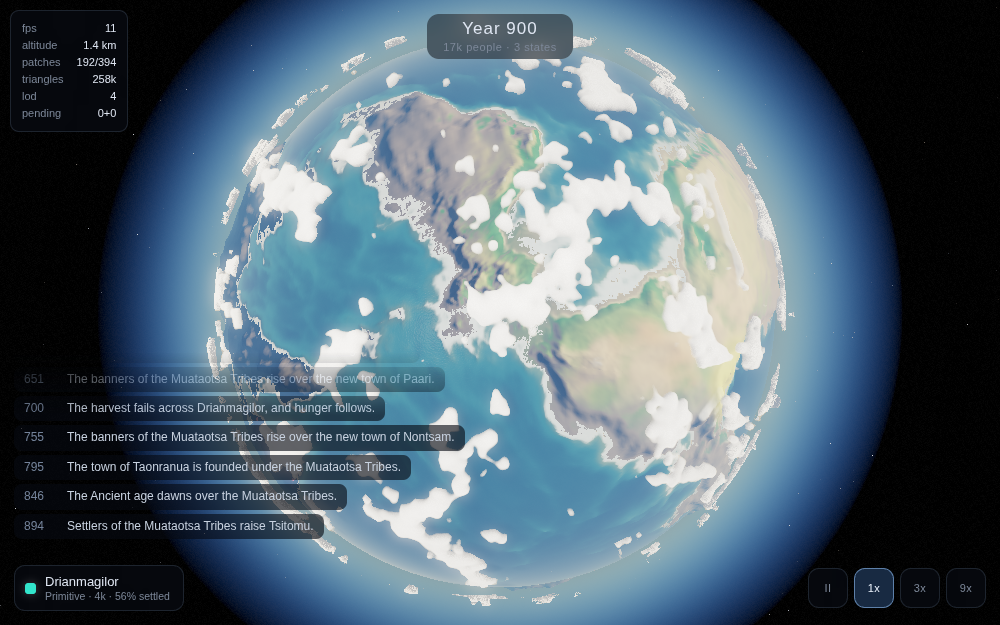
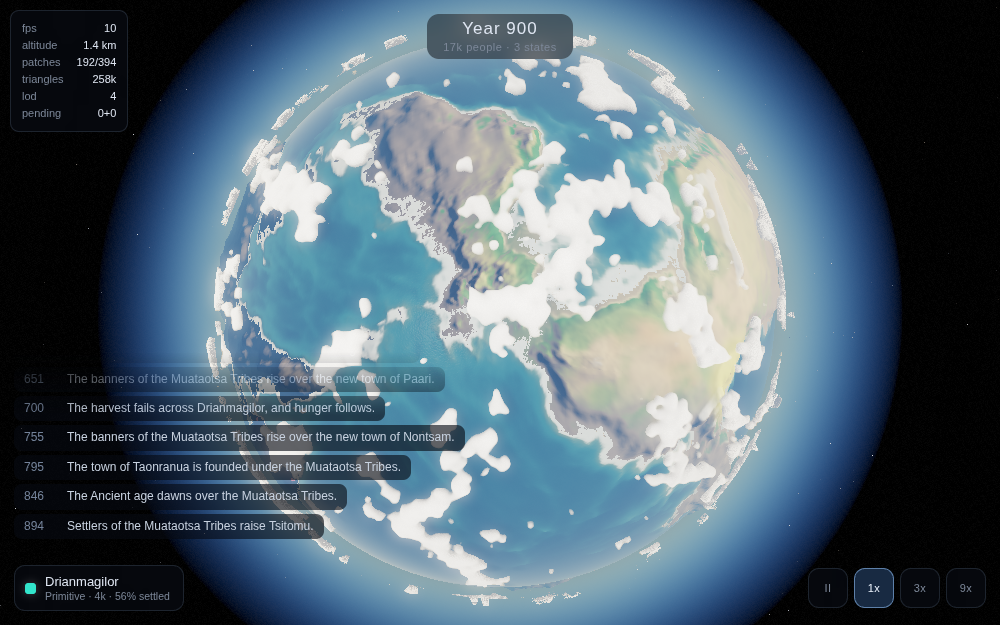
Put trees where nobody built a town
Vegetation existed in a ring around every settlement and nowhere else, which
made a wilderness the one part of the planet visibly emptier than the
farmland — exactly backwards.

The obvious fix is to hang a scatter off the terrain's LOD patches. That is
the right long-term answer and it is a much larger problem than it looks:
patches split and merge constantly while the camera moves, so the scatter has
to stay stable across a subdivision it does not control.

This is the cheap version, and it is cheap because of an observation about
where vegetation actually has to exist: only where you are. One disc follows
the camera's ground point and rebuilds once it has moved a third of its own
radius. Density falls off with distance — radius as u^1.5 rather than the
uniform-area sqrt(u), because spreading a fixed budget evenly over a disc
makes the far edge look like the ground at your feet and neither dense enough.
Species come from the climate the terrain function already computes, so a cold
coast gets conifers and a dry interior gets scrub with nothing having to decide
what biome it is.

Nine hundred candidates against the terrain function is seventeen
milliseconds, so it is built a couple of hundred at a time across frames and
swapped in whole. The old scatter stays on screen while the new one comes
together, and a long flight never costs a frame.

Claude-Session: https://claude.ai/code/session_01LGa68L7NcxbnLmGhCPV4sy

diff --git a/src/render/ground/wilderness.ts b/src/render/ground/wilderness.ts
@@ -1,0 +1,243 @@
+/**
+ * Vegetation outside the towns.
+ *
+ * Trees, crops and scrub used to exist in a ring around every settlement and
+ * nowhere else, which made a wilderness the one part of the planet that was
+ * visibly emptier than the farmland — exactly backwards.
+ *
+ * The obvious fix is to hang a scatter off the terrain's LOD patches. That is
+ * the right long-term answer and it is a much larger problem than it looks:
+ * patches split and merge constantly while the camera moves, so the scatter has
+ * to be stable across a subdivision it does not control, and every LOD change
+ * re-uploads thousands of instances.
+ *
+ * This is the cheap version, and it is cheap because of an observation about
+ * where vegetation actually has to exist: only where you are. One disc of
+ * scatter follows the camera's ground point and is rebuilt when it has moved a
+ * third of its own radius — a few hundred metres of flying, and a few
+ * milliseconds of terrain sampling when it happens. Density falls off with
+ * distance so the near field is dense and the far edge is sparse, which is both
+ * what a landscape looks like and what keeps the instance count bounded.
+ *
+ * Species come from the climate the terrain function already computes, so a
+ * cold coast gets conifers and a dry interior gets scrub without anything
+ * having to decide what biome it is.
+ */
+
+import * as THREE from 'three';
+import { PLANET_RADIUS } from '../../planet/config';
+import { makeRng, mixSeed } from '../../core/rng';
+import type { PlanetField } from '../../planet/heightfield';
+import type { PropPlacement } from './plan';
+
+/** Candidate points tested per rebuild. Roughly a third of them take. */
+const SCATTER_COUNT = 900;
+
+/** Candidates tested per frame while a rebuild is in progress. */
+const CHUNK = 220;
+
+/** Rebuild once the camera's ground point has moved this fraction of the radius. */
+const REBUILD_FRACTION = 0.32;
+
+export class Wilderness {
+  private field: PlanetField;
+  private seed: number;
+
+  private centre = new THREE.Vector3();
+  private radius = 0;
+  private built = false;
+  private lastMs = 0;
+
+  /** The scatter currently uploaded. Replaced only when a rebuild finishes. */
+  props: PropPlacement[] = [];
+
+  /**
+   * A rebuild in progress.
+   *
+   * Built a few hundred candidates at a time and swapped in whole, so a long
+   * flight never costs a frame and the old scatter stays on screen while the
+   * new one is coming together. Sampling nine hundred points against the
+   * terrain function is seventeen milliseconds; a fifth of that is a frame
+   * nobody notices.
+   */
+  private pending: PropPlacement[] | null = null;
+  private pendingIndex = 0;
+  private pendingRng: ReturnType<typeof makeRng> | null = null;
+  private pendingCentre = new THREE.Vector3();
+  private pendingRadius = 0;
+  private pendingExclude: { centre: THREE.Vector3; radius: number }[] = [];
+
+  private dir = new THREE.Vector3();
+  private east = new THREE.Vector3();
+  private north = new THREE.Vector3();
+
+  constructor(field: PlanetField, seed: number) {
+    this.field = field;
+    this.seed = seed >>> 0;
+  }
+
+  /** True when the scatter changed and the caller has to re-upload. */
+  update(
+    groundUnit: THREE.Vector3,
+    reach: number,
+    exclude: { centre: THREE.Vector3; radius: number }[],
+  ): boolean {
+    if (reach < 40) {
+      this.pending = null;
+      if (!this.built && this.props.length === 0) return false;
+      this.props.length = 0;
+      this.built = false;
+      return true;
+    }
+
+    if (this.pending) return this.advance();
+
+    // Angular distance is the honest measure here: the two points are on a
+    // sphere, and near the poles a difference in longitude is not a distance.
+    const moved = this.built
+      ? Math.acos(THREE.MathUtils.clamp(this.centre.dot(groundUnit), -1, 1)) * PLANET_RADIUS
+      : Infinity;
+    if (
+      this.built &&
+      moved < this.radius * REBUILD_FRACTION &&
+      Math.abs(reach - this.radius) < this.radius * 0.2
+    ) {
+      return false;
+    }
+
+    this.start(groundUnit, reach, exclude);
+    return this.advance();
+  }
+
+  private start(
+    groundUnit: THREE.Vector3,
+    reach: number,
+    exclude: { centre: THREE.Vector3; radius: number }[],
+  ): void {
+    this.pendingCentre.copy(groundUnit).normalize();
+    this.pendingRadius = reach;
+    this.pendingExclude = exclude.map((e) => ({ centre: e.centre.clone(), radius: e.radius }));
+    this.pending = [];
+    this.pendingIndex = 0;
+
+    const up = this.pendingCentre;
+    const ref = Math.abs(up.y) < 0.99 ? new THREE.Vector3(0, 1, 0) : new THREE.Vector3(1, 0, 0);
+    this.east.crossVectors(ref, up).normalize();
+    this.north.crossVectors(up, this.east);
+
+    // Seeded by where the disc is, not by how many have been built: fly away
+    // and back and the same trees are in the same places.
+    const key =
+      (Math.round(up.x * 4096) * 73856093) ^
+      (Math.round(up.y * 4096) * 19349663) ^
+      (Math.round(up.z * 4096) * 83492791);
+    this.pendingRng = makeRng(mixSeed(this.seed, key));
+  }
+
+  /** Test the next chunk of candidates. True when the scatter was swapped in. */
+  private advance(): boolean {
+    const pending = this.pending;
+    const rng = this.pendingRng;
+    if (!pending || !rng) return false;
+
+    const start = performance.now();
+    const end = Math.min(SCATTER_COUNT, this.pendingIndex + CHUNK);
+    this.scatter(pending, rng, this.pendingIndex, end);
+    this.pendingIndex = end;
+    // Per chunk, not per rebuild: what matters is the frame, not the total.
+    this.lastMs = performance.now() - start;
+
+    if (this.pendingIndex < SCATTER_COUNT) return false;
+
+    this.props = pending;
+    this.centre.copy(this.pendingCentre);
+    this.radius = this.pendingRadius;
+    this.built = true;
+    this.pending = null;
+    this.pendingRng = null;
+    return true;
+  }
+
+  get buildMs(): number {
+    return this.lastMs;
+  }
+
+  private scatter(
+    out: PropPlacement[],
+    rng: ReturnType<typeof makeRng>,
+    from: number,
+    to: number,
+  ): void {
+    const up = this.pendingCentre;
+    const exclude = this.pendingExclude;
+    const world = new THREE.Vector3();
+    for (let i = from; i < to; i++) {
+      // Radius as u^1.5 rather than sqrt(u): uniform area density spreads a
+      // fixed budget evenly over a disc, which means the far edge looks the
+      // same as the ground at your feet and neither is dense enough.
+      const r = this.pendingRadius * Math.pow(rng.next(), 1.5);
+      const angle = rng.next() * Math.PI * 2;
+      const a = Math.cos(angle) * r;
+      const b = Math.sin(angle) * r;
+
+      this.dir
+        .copy(up)
+        .addScaledVector(this.east, a / PLANET_RADIUS)
+        .addScaledVector(this.north, b / PLANET_RADIUS)
+        .normalize();
+
+      const ground = this.field.sample(this.dir.x, this.dir.y, this.dir.z, 0.5);
+      if (ground.height < 1.2) continue;
+
+      // Thin out on anything a tree would fall off, and above the treeline.
+      if (ground.temperature < 0.14) continue;
+      const density =
+        Math.min(1, ground.moisture * 1.5) *
+        Math.min(1, (ground.temperature - 0.1) * 2.2) *
+        (1 - THREE.MathUtils.smoothstep(ground.height, 15, 24));
+      if (!rng.chance(density)) continue;
+
+      // Towns plant their own; this must not double up inside one.
+      let inTown = false;
+      world.copy(this.dir).multiplyScalar(PLANET_RADIUS + ground.height);
+      for (const town of exclude) {
+        if (world.distanceToSquared(town.centre) < town.radius * town.radius * 2.9) {
+          inTown = true;
+          break;
+        }
+      }
+      if (inTown) continue;
+
+      let kind = 0;
+      if (ground.temperature < 0.36) kind = 2;
+      else if (ground.moisture < 0.32) kind = 3;
+      else if (ground.temperature > 0.74 && ground.moisture < 0.48) kind = 3;
+
+      const lush = 0.5 + ground.moisture * 0.8;
+      out.push({
+        origin: this.dir.clone().multiplyScalar(PLANET_RADIUS + ground.height - 0.25),
+        rot: rng.next() * Math.PI,
+        size: kind === 3 ? rng.range(1.4, 2.6) : rng.range(3.0, 7.0),
+        kind,
+        tint: [
+          rng.range(0.08, 0.19) * lush,
+          rng.range(0.17, 0.32) * lush,
+          rng.range(0.05, 0.14) * lush,
+        ],
+      });
+    }
+  }
+
+  /** Force a rebuild on the next update, e.g. after the range changed. */
+  invalidate(): void {
+    this.built = false;
+    this.pending = null;
+  }
+
+  /** Drop the scatter entirely. Used when the layer stops drawing the world. */
+  clear(): void {
+    this.props = [];
+    this.built = false;
+    this.pending = null;
+  }
+}

diff --git a/src/render/ground/detail.ts b/src/render/ground/detail.ts
@@ -39,6 +39,7 @@ import { PEOPLE_FAR, PEOPLE_NEAR, PeopleLayer } from './people';
 import { planTown, signatureOf } from './plan';
 import type { ArchetypeName } from './archetypes';
 import { kitShowcase } from './showcase';
+import { Wilderness } from './wilderness';
 import type { TownPlan, TownRequest } from './plan';
 import { townStyle } from './style';
 import type { Rgb } from './style';
@@ -75,6 +76,7 @@ export class GroundDetail {
 
   private field: PlanetField;
   private worldSeed: number;
+  private wild: Wilderness;
 
   private plans = new Map<number, TownPlan>();
   private pending: TownRequest[] = [];
@@ -87,11 +89,14 @@ export class GroundDetail {
 
   private cameraPos = new THREE.Vector3();
   private unit = new THREE.Vector3();
+  private wildCentre = new THREE.Vector3();
+  private wildExclude: { centre: THREE.Vector3; radius: number }[] = [];
 
   constructor(shared: SharedUniforms, field: PlanetField, worldSeed: number) {
     this.field = field;
     this.worldSeed = worldSeed;
 
+    this.wild = new Wilderness(field, worldSeed);
     this.buildings = new BuildingLayer(shared);
     this.roads = new RoadLayer(shared);
     this.props = new PropLayer(shared);
@@ -115,6 +120,7 @@ export class GroundDetail {
     this.props.setRange(PROP_NEAR * scale, PROP_FAR * scale);
     this.people.setRange(PEOPLE_NEAR * scale, PEOPLE_FAR * scale);
     this.rangeScale = scale;
+    this.wild.invalidate();
   }
 
   private rangeScale = 1;
@@ -149,6 +155,9 @@ export class GroundDetail {
   setShowcase(row: number | 'all' | null): void {
     this.showcase = row;
     this.uploaded = '';
+    // The sheet shows the catalogue and nothing else; a stale wilderness would
+    // otherwise stay uploaded and put a forest through the middle of it.
+    this.wild.clear();
   }
 
   private showcase: number | 'all' | null = null;
@@ -337,8 +346,21 @@ export class GroundDetail {
       signature += `${c.cell}:${plan.signature}:${(c.distance / 64) | 0}|`;
     }
 
+    // Vegetation outside the towns. Follows the view centre rather than the
+    // camera's nadir for the same reason the kit sheet does: at any altitude
+    // worth scattering for, the two are a long way apart.
+    this.viewCentre(camera, this.wildCentre);
+    const wildReach =
+      altitude < PROP_FAR * this.rangeScale ? PROP_FAR * this.rangeScale * 0.95 : 0;
+    this.wildExclude.length = 0;
+    for (const c of candidates) {
+      const plan = this.plans.get(c.cell);
+      if (plan) this.wildExclude.push({ centre: plan.centre, radius: plan.radius });
+    }
+    const wildChanged = this.wild.update(this.wildCentre, wildReach, this.wildExclude);
+
     this.townCount = active.length;
-    if (signature === this.uploaded) return;
+    if (signature === this.uploaded && !wildChanged) return;
     this.uploaded = signature;
     this.upload(active);
   }
@@ -352,6 +374,8 @@ export class GroundDetail {
     const scale = this.rangeScale;
     let lampWeight = 0;
     let lampTotal = 0;
+
+    for (const p of this.wild.props) this.props.add(p);
 
     for (const town of active) {
       const { plan } = town;
@@ -395,6 +419,7 @@ export class GroundDetail {
     this.people.commit();
     this.townCount = 0;
     this.uploaded = '';
+    this.wild.clear();
   }
 
   getStats(): Record<string, number> {
@@ -406,6 +431,8 @@ export class GroundDetail {
       plants: this.props.instanceCount,
       people: this.people.instanceCount,
       planMs: this.lastPlanMs,
+      wildMs: this.wild.buildMs,
+      wildPlants: this.wild.props.length,
       cachedPlans: this.plans.size,
     };
   }

diff --git a/docs/ROADMAP.md b/docs/ROADMAP.md
@@ -176,20 +176,27 @@ away from the sun; with only the terrain's ambient, that wall is not shadowed, i
 black.
 
 **Still open here.** Buildings cast a sheared quad rather than a real shadow, which is
-right for the cost but shows on a low sun. Towns are denser than they were and still
-thinner than they should be at the top tiers. And the general ground scatter below is
-still the missing half of "land detail": vegetation exists around towns and nowhere
-else.
+right for the cost but shows on a low sun. Masonry courses and weathering only survive
+within about a hundred and fifty metres, which is correct and does mean a town at mid
+zoom is still flat colour. And planet-wide vegetation is still the missing half of "land
+detail" — see below.
 
 ### Terrain detail textures · **M**
 Procedural grain gets the ground surprisingly far, but triplanar grass, rock and sand at
 close range would sharpen everything below about two hundred metres.
 
-### Vegetation away from towns · **M**
-Trees, crops and scrub exist in a ring around every settlement and nowhere else, so a
-wilderness is bare ground. The instanced crossed-quad layer is already built; what it
-needs is a scatter tied to the terrain LOD patches rather than to the town planner, which
-is a different and larger problem: it has to be stable as patches split and merge.
+### Vegetation away from towns · **partly done**
+One disc of scatter follows the camera's ground point and is rebuilt, a few hundred
+candidates per frame, once it has moved a third of its own radius. Density falls off with
+distance and comes from the climate the terrain function already computes, so a damp
+valley is wooded and a dry ridge is not.
+
+What it is *not* is a scatter over the whole planet. Vegetation exists where you are and
+nowhere else, which is invisible from the ground and obvious the moment two viewpoints
+are compared from the air. The real answer is a scatter hung off the terrain's own LOD
+patches: it comes free of extra terrain sampling, because the patch vertices already
+carry height, moisture and temperature — but it has to stay stable as patches split and
+merge underneath it, which is the whole difficulty.
 
 ---
 
